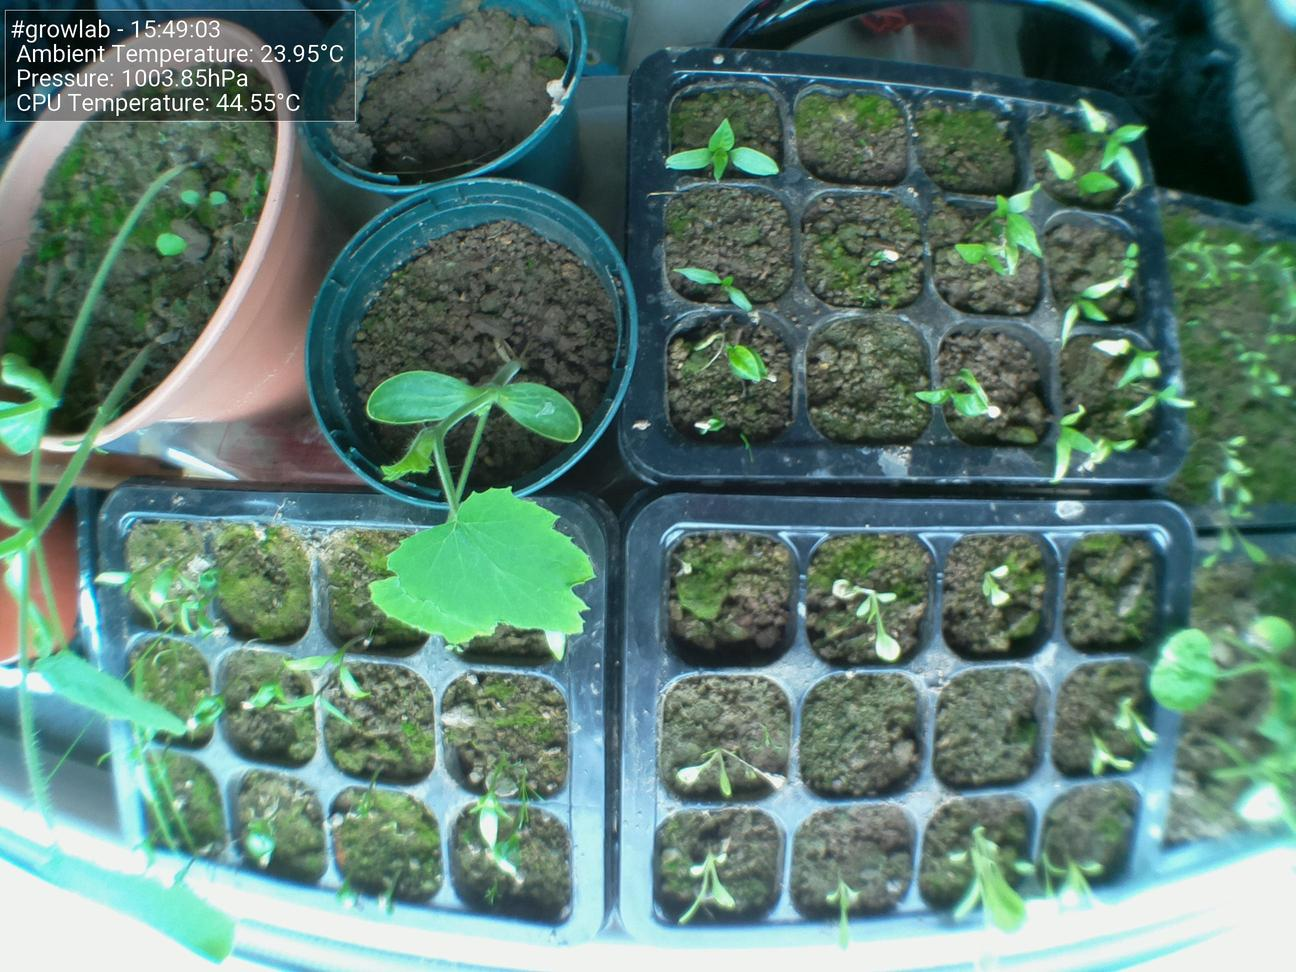
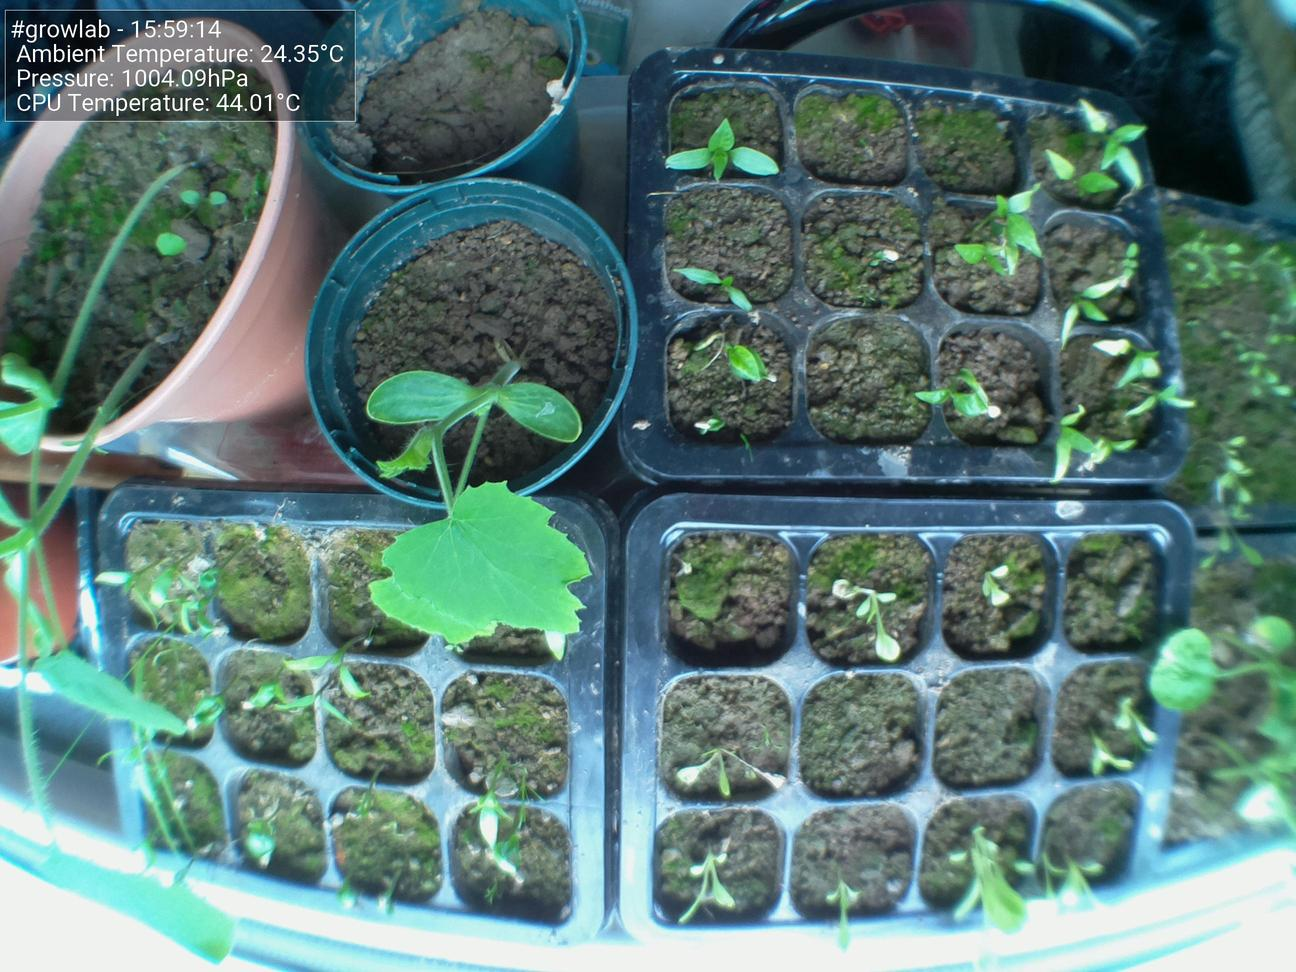
Update images at Mon 16 May 15:59:19 BST 2022

diff --git a/docs/index.html b/docs/index.html
@@ -44,15 +44,15 @@
                         <tbody>
                             <tr>
                                 <td>Time</td>
-                                <td>15:49:03</td>
+                                <td>15:59:14</td>
                             </tr>
                             <tr>
                                 <td>CPU Temp</td>
-                                <td>44.55°C</td>
+                                <td>44.01°C</td>
                             </tr>
                             <tr>
                                 <td>Ambient Temperature</td>
-                                <td>23.95°C</td>
+                                <td>24.35°C</td>
                             </tr>
                             <tr>
                                 <td>Humidity</td>
@@ -60,7 +60,7 @@
                             </tr>
                             <tr>
                                 <td>Pressure</td>
-                                <td>1003.85hPa</td>
+                                <td>1004.09hPa</td>
                             </tr>
                         </tbody>
                     </table>
@@ -68,7 +68,7 @@
 
                 <h5>Latest image</h5>
                 <div style="width: 85%;">
-                            <img class="figure-img img-fluid rounded" src="./preview.jpg?uid=1652712547.3176563">
+                            <img class="figure-img img-fluid rounded" src="./preview.jpg?uid=1652713158.7329602">
                 </div>
             </div>
         </div>
